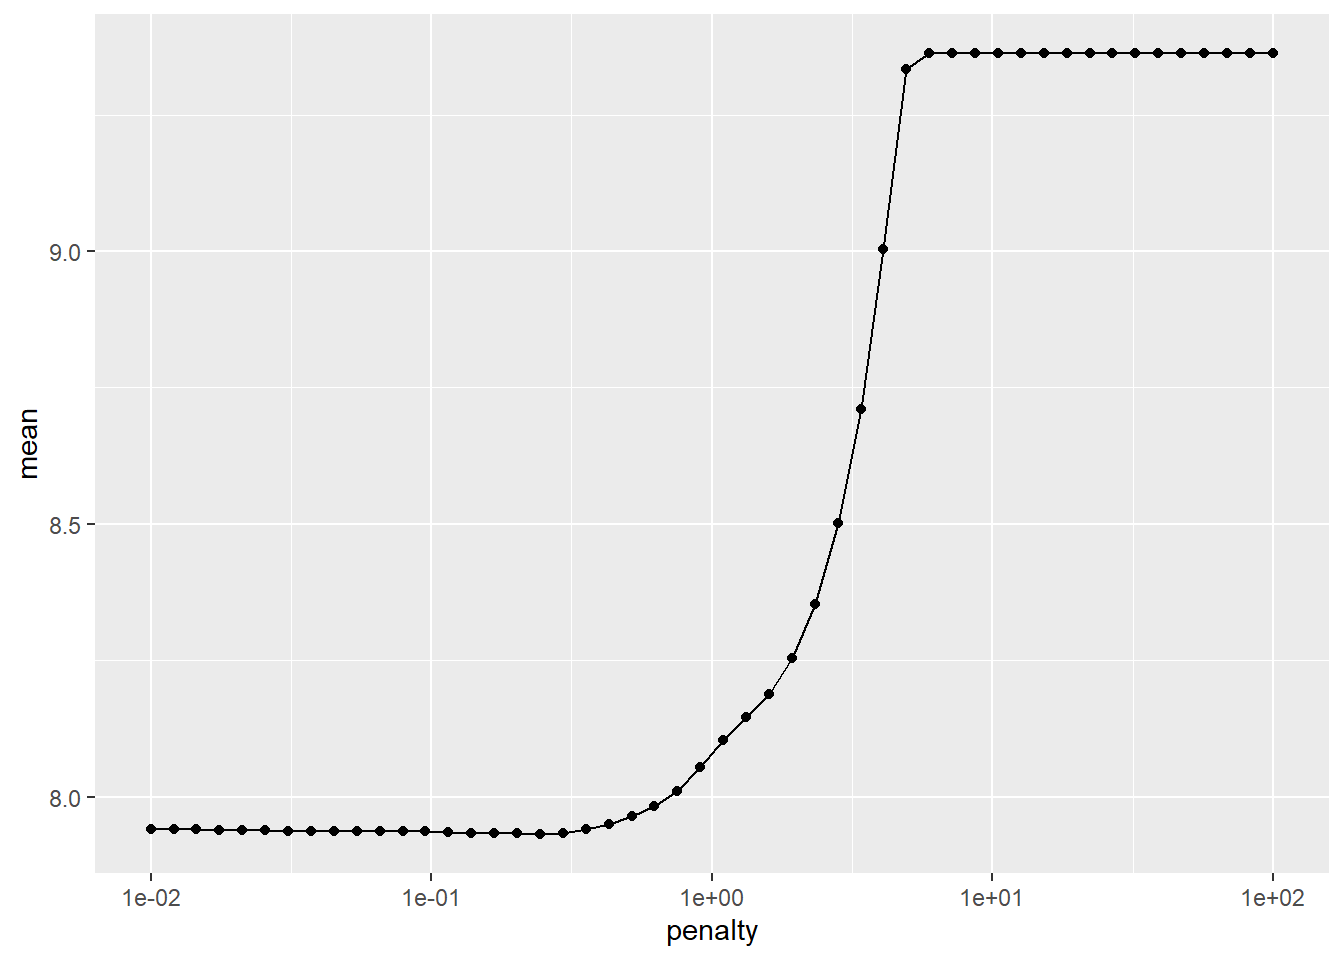
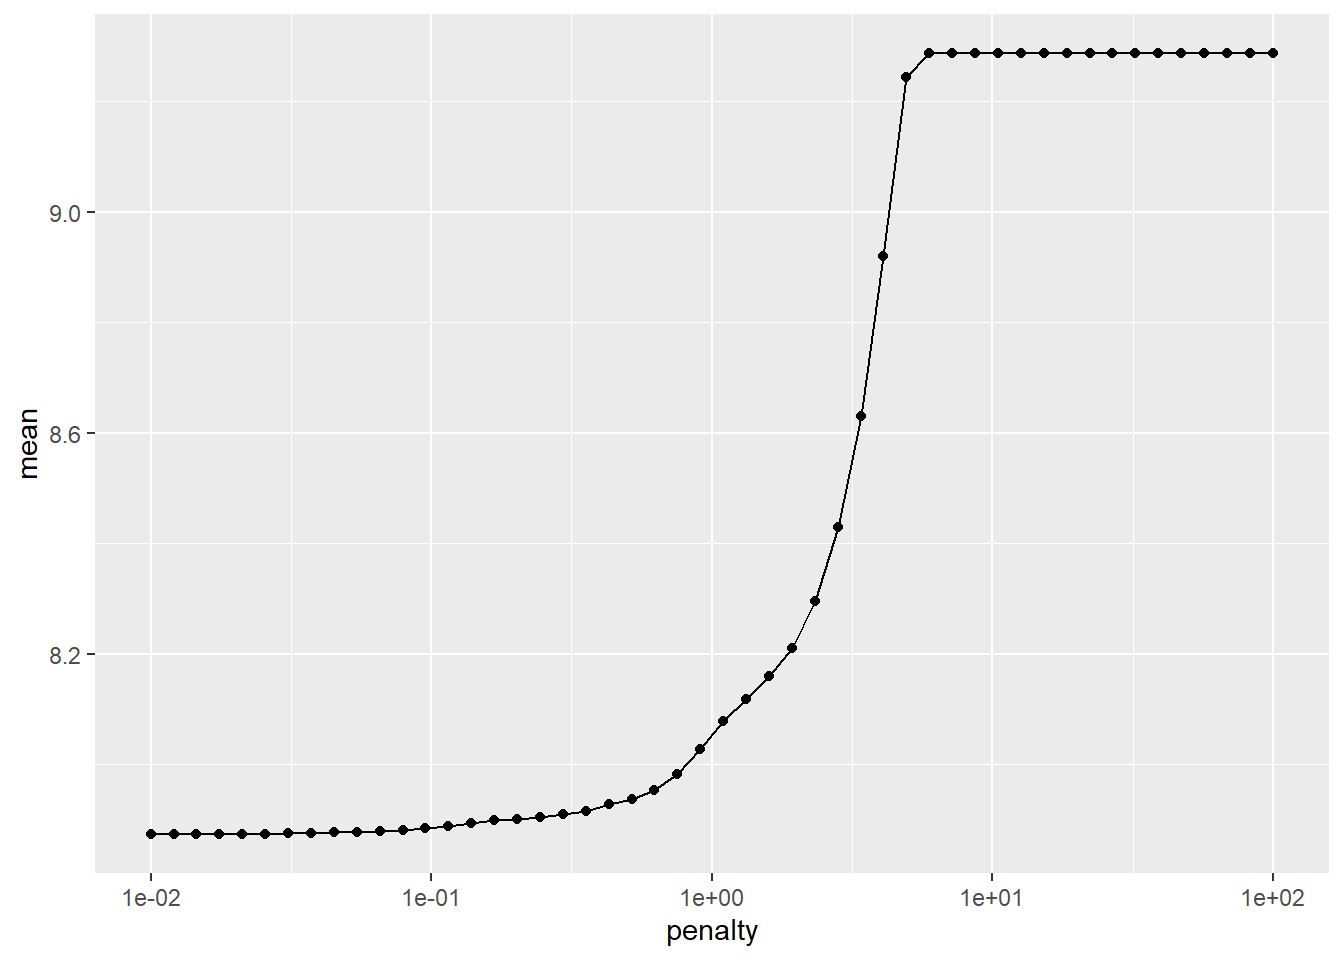
link 5

diff --git a/docs/FinalProject.html b/docs/FinalProject.html
@@ -686,7 +686,7 @@ New names:
 <pre><code># A tibble: 1 × 2
   penalty .config              
     &lt;dbl&gt; &lt;chr&gt;                
-1   0.244 Preprocessor1_Model18</code></pre>
+1    0.01 Preprocessor1_Model01</code></pre>
 </div>
 <div class="sourceCode cell-code" id="cb20"><pre class="sourceCode r code-with-copy"><code class="sourceCode r"><span id="cb20-1"><a href="#cb20-1" aria-hidden="true" tabindex="-1"></a>lasso_wflow_final <span class="ot">&lt;-</span> kcc_lasso_wflow <span class="sc">|&gt;</span></span>
 <span id="cb20-2"><a href="#cb20-2" aria-hidden="true" tabindex="-1"></a>  <span class="fu">finalize_workflow</span>(<span class="at">parameters =</span> lasso_best) </span></code><button title="Copy to Clipboard" class="code-copy-button"><i class="bi"></i></button></pre></div>
@@ -703,16 +703,16 @@ New names:
 <pre><code># A tibble: 10 × 3
    term        estimate penalty
    &lt;chr&gt;          &lt;dbl&gt;   &lt;dbl&gt;
- 1 (Intercept)  27.8      0.244
- 2 PtA          -0.0338   0.244
- 3 FirstD        0.763    0.244
- 4 TotYd         3.73     0.244
- 5 PassY         0        0.244
- 6 RushY         0.881    0.244
- 7 FirstD_Alwd   1.40     0.244
- 8 TotYd_Alwd    0        0.244
- 9 PassY_Alwd    0.465    0.244
-10 RushY_Alwd   -0.407    0.244</code></pre>
+ 1 (Intercept)   27.8      0.01
+ 2 PtA           -1.02     0.01
+ 3 FirstD         1.12     0.01
+ 4 TotYd          3.89     0.01
+ 5 PassY          0        0.01
+ 6 RushY          0.966    0.01
+ 7 FirstD_Alwd    2.08     0.01
+ 8 TotYd_Alwd     0        0.01
+ 9 PassY_Alwd     0.813    0.01
+10 RushY_Alwd    -0.500    0.01</code></pre>
 </div>
 </div>
 <p>Here we can see that important variables include Points Allowed (PtA), First Down Count (FirstD), Total Yards (TotYd), total Rusing Yards (RushY), First Downs Allowed (FirstD_Alwd), Passing Yards Allowed (PassY_Alwd) and Rushing Yards Allowed (RushY_Alwd). We will proceed to use these variables in our following models.</p>
